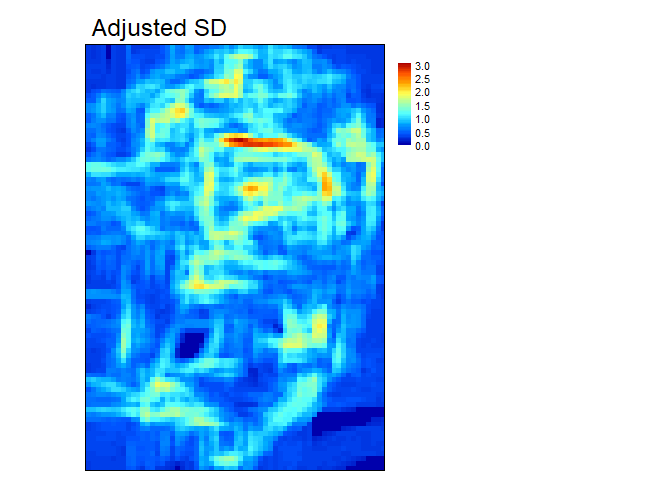
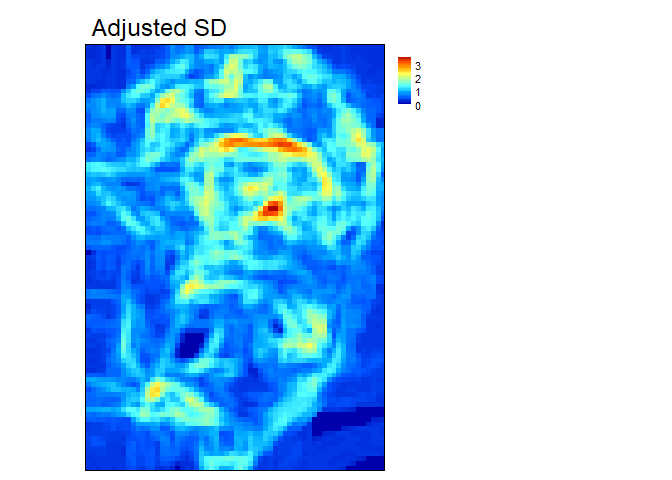
AdjSD fix - Equation was using z= cXY+dx+ey+f instead of z = dX+eY+f

Changed region(s): [[0.125, 0.0938, 0.6562, 1.0], [0.125, 0.5938, 0.1875, 0.625]]

diff --git a/src/cpp_code.cpp b/src/cpp_code.cpp
@@ -160,8 +160,8 @@ NumericVector C_multiscale1(NumericMatrix r, IntegerVector w, NumericMatrix X, b
   NumericVector out = NumericVector(n_elem); //SD Residuals
   out.fill(NA_REAL);
   
-  //NEED AT LEAST 4 POINTS TO CALCULATE BECAUSE NEED AS MANY POINTS AS PARAMETERS
-  int thresh = 4;
+  //NEED AT LEAST 3 POINTS TO CALCULATE BECAUSE NEED AS MANY POINTS AS PARAMETERS
+  int thresh = 3;
   for(int i = min_row; i< max_row; ++i) {
     for(int j = min_col; j < max_col; ++j){
       IntegerVector idx = IntegerVector(2);
